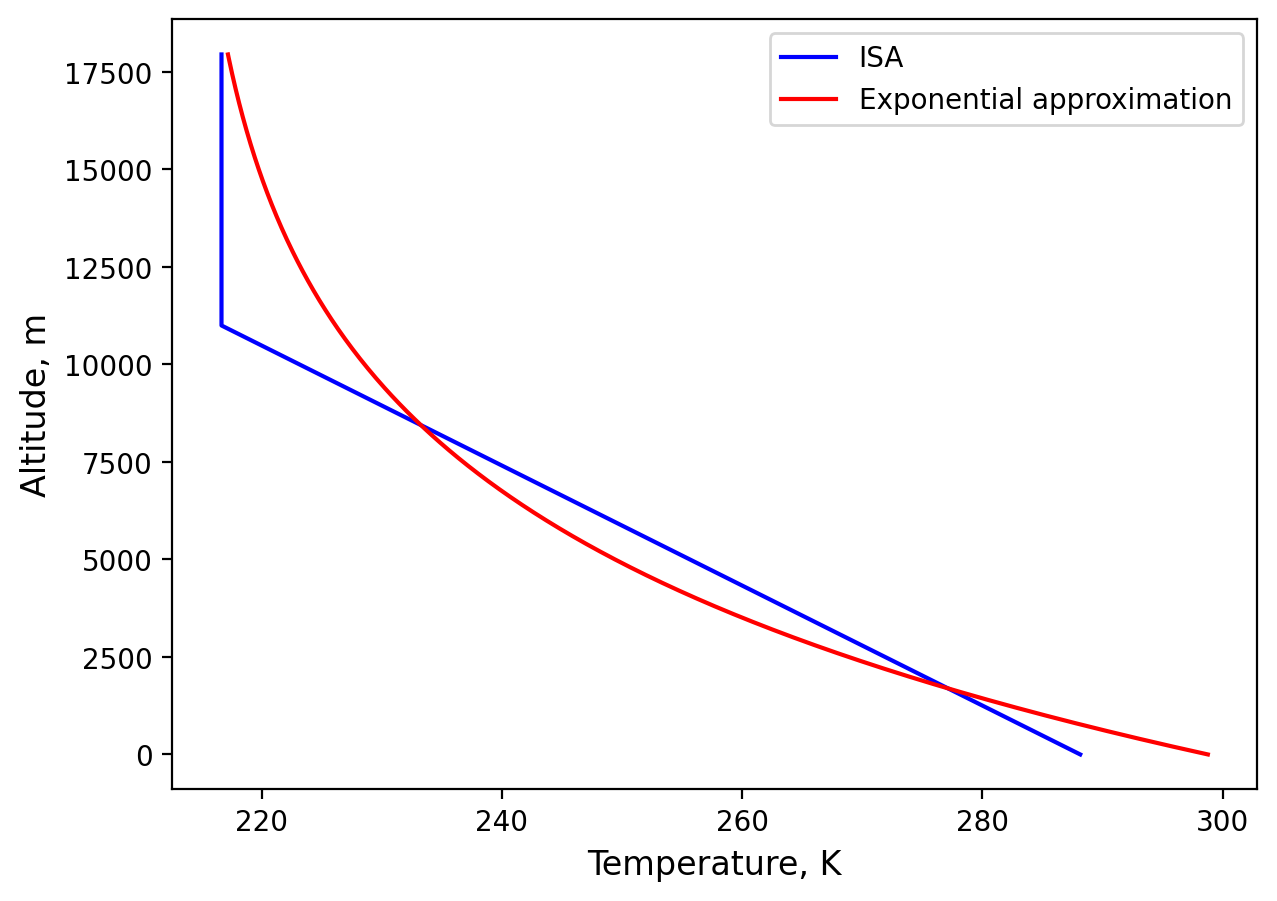
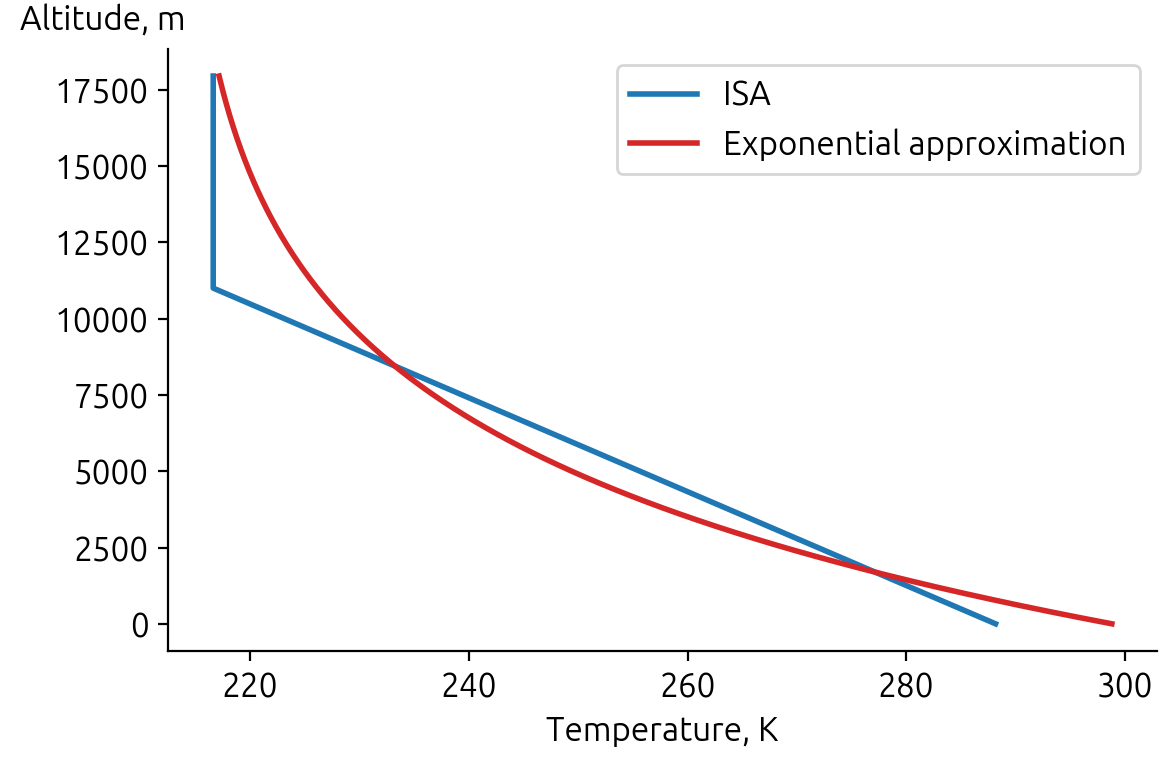
redo plots

Changed region(s): [[0.0, 0.0, 1.0, 0.9896], [0.2143, 0.2399, 0.2449, 0.3299], [0.0, 0.3598, 0.0306, 0.3898]]

diff --git a/paper_plots.py b/paper_plots.py
@@ -1,14 +1,21 @@
 # %%
-import numpy as np
-import pandas as pd
-import openap
-from openap import top
-import matplotlib.pyplot as plt
+# %%
 import matplotlib
-from matplotlib.colors import Normalize
+import matplotlib.pyplot as plt
+import numpy as np
+import openap
+import pandas as pd
+import seaborn as sns
 from matplotlib.cm import ScalarMappable
-from sklearn.model_selection import train_test_split
+from matplotlib.colors import Normalize
+from openap import top
 from sklearn.linear_model import LinearRegression
+from sklearn.model_selection import train_test_split
+
+matplotlib.rc("font", size=12)
+matplotlib.rc("font", family="Ubuntu")
+matplotlib.rc("lines", linewidth=2, markersize=8)
+matplotlib.rc("grid", color="darkgray", linestyle=":")
 
 
 # %%
@@ -18,36 +25,33 @@ aircraft = openap.prop.aircraft(ac)
 max_range = wrap.cruise_range()["maximum"]
 m_mtow = aircraft["limits"]["MTOW"]
 oew = aircraft["limits"]["OEW"]
-font = 12
+
 # %%
 # Plotting ISA vs Expoential
-h = range(0, 18000, 50)
-temp = []
-r = []
-for i in range(len(h)):
-    pi, rhoi, Ti = openap.aero.atmos(h[i])
-    temp.append(Ti)
-    r.append(rhoi)
+h = np.arange(0, 18000, 50)
+pressure, density, temp = openap.aero.atmos(h)
 
 a, b, d = [85.46369268, -0.00017235, 213.31449979]
-temp_exp = []
-for i in range(len(h)):
-    temp_exp.append(a * np.exp(h[i] * b) + d)
+temp_exp = a * np.exp(h * b) + d
 
 
-fig = plt.figure(figsize=(7, 5))
-plt.plot(temp, h, "b", label="ISA")
-plt.plot(temp_exp, h, "r", label="Exponential approximation")
+fig = plt.figure(figsize=(6, 4))
+ax = plt.gca()
 
-plt.xlabel("Temperature, K", fontsize=font)
-plt.legend()
-plt.ylabel("Altitude, m", fontsize=font)
-plt.savefig(
-    "figures/ISA_exp.png",
-    bbox_inches="tight",
-    pad_inches=0.1,
-    dpi=200,
-)
+ax.plot(temp, h, "tab:blue", label="ISA")
+ax.plot(temp_exp, h, "tab:red", label="Exponential approximation")
+
+ax.set_xlabel("Temperature, K")
+ax.set_ylabel("Altitude, m", rotation=0, ha="left")
+ax.legend()
+
+ax.spines["right"].set_visible(False)
+ax.spines["top"].set_visible(False)
+ax.yaxis.set_label_coords(-0.15, 1.02)
+
+plt.tight_layout()
+plt.savefig("figures/ISA_exp.png", bbox_inches="tight", pad_inches=0.1, dpi=200)
+
 plt.show()
 
 # %%
@@ -55,8 +59,10 @@ plt.show()
 dmin, dmax = 500, max_range
 distance = list(range(dmin, int(dmax), 800))
 mass = [0.7, 0.75, 0.8, 0.85, 0.9]
+
 # %%
-c = 0
+flights = []
+
 for m in mass:
     start_lon = -150
     start = (0, start_lon)
@@ -74,73 +80,39 @@ for m in mass:
     flight = (
         flight.drop(["latitude", "longitude", "h"], axis=1)
         .assign(
-            x=0,
-            y=lambda d: (d.y / 1000).round(-1).astype(int),
-            alt=lambda d: d.altitude.round(-2).astype(int),
-            tas=lambda d: d.tas.round().astype(int),
-            vertical_rate=lambda d: d.vertical_rate.round().astype(int),
-            heading=lambda d: d.heading.round().astype(int),
-            mass=lambda d: d.mass.round(-1).astype(int),
-            fuel=lambda d: d.fuel.round(-1).astype(int),
+            dist=lambda d: ((d.x - d.x.iloc[0]) / 1000).astype(int),
         )
-        .assign(y=lambda d: d.y - d.y.iloc[0])
-        .rename(
-            columns={
-                "alt": f"alt{c}",
-                "ts": f"ts{c}",
-                "mass": f"mass{c}",
-                "tas": f"tas{c}",
-                "mach": f"mach{c}",
-            }
-        )
-        .drop(["x", "y", "vertical_rate", "altitude", "heading", "fuel"], axis=1)
+        .drop(["x", "y"], axis=1)
+        .assign(flight_id=f"{int(m*100)}% MTOW")
     )
+    flights.append(flight)
 
-    r = []
-    for i in range(len(flight)):
-        ts = flight[f"ts{c}"][i]
-        tas = flight[f"tas{c}"][i] * openap.aero.kts
-        if i == 0:
-            dis = 0
-        else:
-            dis = dis + (ts - flight[f"ts{c}"][i - 1]) * tas
-        r.append(dis / 1000)
-    flight = flight.assign(distance=r).rename(columns={"distance": f"dist{c}"})
-    if c == 0:
-        df = flight
-    else:
-        df = pd.concat([df, flight], axis=1)
-    c = c + 1
+flights = pd.concat(flights, ignore_index=True)
+
+flights.to_csv("data/flights_different_mass.csv", index=False)
 
 # %%
-plt.figure(figsize=(7, 5))
-cmap = plt.get_cmap("viridis").reversed()
-norm = Normalize(
-    vmin=50600,
-    vmax=70200,
-)
-sm = ScalarMappable(norm=norm, cmap=cmap)
-for i in range(5):
-    plt.plot(
-        df[f"dist{i}"],
-        df[f"alt{i}"],
-        linewidth=2,
-        label=str(int(df[f"mass{i}"][0] / 780)) + "% MTOW",
-        c=sm.to_rgba(df[f"mass{i}"][0]),
-    )  # y=x line
 
-plt.xlabel("Distance, km", fontsize=font)
-plt.ylabel("Altitude, ft", fontsize=font)
-# plt.title("Cruise Altitude Variation with the Change in Takeoff Mass", fontsize=font)
-plt.legend()
-plt.savefig(
-    "figures/alt_vs_mass.png",
-    bbox_inches="tight",
-    pad_inches=0.1,
-    dpi=200,
+flights = pd.read_csv("data/flights_different_mass.csv")
+
+plt.figure(figsize=(6, 4))
+ax = plt.gca()
+sns.lineplot(
+    data=flights, x="dist", y="altitude", hue="flight_id", palette="viridis_r", ax=ax
 )
+ax.set_xlabel("Distance, km")
+ax.set_ylabel("Altitude, ft", rotation=0, ha="left")
+ax.legend()
+
+ax.spines["right"].set_visible(False)
+ax.spines["top"].set_visible(False)
+ax.yaxis.set_label_coords(-0.15, 1.02)
+
+plt.savefig("figures/alt_vs_mass.png", bbox_inches="tight", pad_inches=0.1, dpi=150)
 
 plt.show()
+
+
 # %%
 c = 0
 for d in distance:
@@ -780,7 +752,6 @@ ax = fig.add_subplot()
 
 for i in range(-90, 90, 10):
     for j in range(-180, 180, 20):
-
         ax.plot(
             df_wind.query("latitude == @i and longitude == @j").t,
             df_wind.query("latitude == @i and longitude == @j").altitude * 0.3048,
